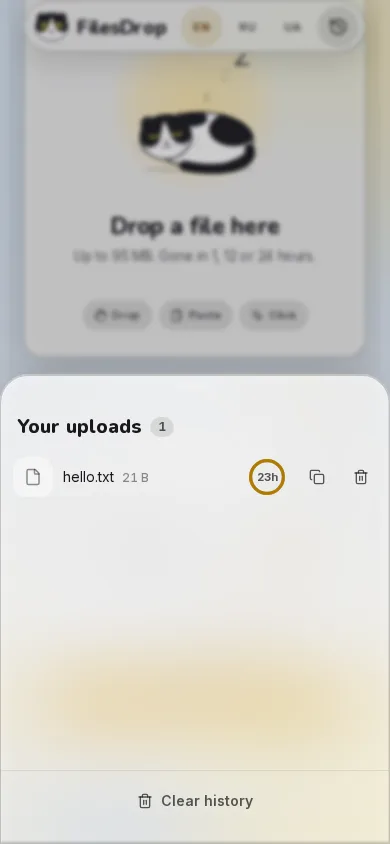
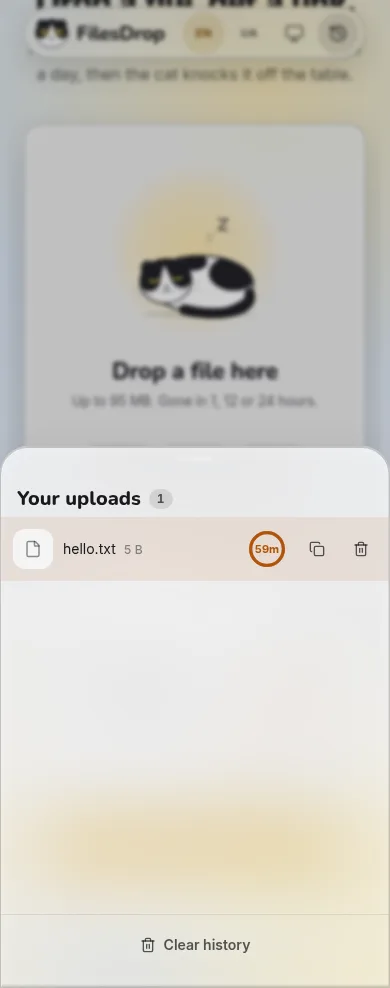
fix: hydration-safe reduced motion, rollback.sh comment, README screenshots without RU
- useReducedMotion from motion/react returned null on the server and true on
  the client's first render, so visitors with reduced motion hydrated different
  cat markup than the server sent (React: "A tree hydrated but some
  attributes ... didn't match"). A useSyncExternalStore hook hydrates with the
  server snapshot and then applies the real setting. Used everywhere the
  motion hook was.
- rollback.sh: describe the :previous tagging as done by build.sh (#16).
- README screenshots retaken on prod: header shows EN/UA and the theme switch.

diff --git a/apps/web/src/lib/use-reduced-motion.ts b/apps/web/src/lib/use-reduced-motion.ts
@@ -1,0 +1,30 @@
+'use client';
+
+import { useSyncExternalStore } from 'react';
+
+const QUERY = '(prefers-reduced-motion: reduce)';
+
+function subscribe(onChange: () => void): () => void {
+  const mql = window.matchMedia(QUERY);
+  mql.addEventListener('change', onChange);
+  return () => mql.removeEventListener('change', onChange);
+}
+
+const getSnapshot = (): boolean => window.matchMedia(QUERY).matches;
+
+/** The server cannot know the visitor's setting, so it renders motion on. */
+const getServerSnapshot = (): boolean => false;
+
+/**
+ * `prefers-reduced-motion`, hydration-safe.
+ *
+ * motion's own `useReducedMotion` returns `null` on the server and the real
+ * value on the client's first render, so a visitor with reduced motion
+ * hydrated different markup than the server sent (animated vs still parts of
+ * the cat) and React logged a hydration mismatch. `useSyncExternalStore`
+ * hydrates with the server snapshot, then re-renders with the real one before
+ * anything animates, and follows the setting if it changes later.
+ */
+export function useReducedMotion(): boolean {
+  return useSyncExternalStore(subscribe, getSnapshot, getServerSnapshot);
+}

diff --git a/apps/web/src/components/history/history-list.tsx b/apps/web/src/components/history/history-list.tsx
@@ -4,13 +4,14 @@ import { Button } from '@andrewbehma/glass-ui/button';
 import { DialogContent, DialogRoot } from '@andrewbehma/glass-ui/dialog';
 import { toast } from '@andrewbehma/glass-ui/toast';
 import { Trash2 } from 'lucide-react';
-import { AnimatePresence, motion, useReducedMotion } from 'motion/react';
+import { AnimatePresence, motion } from 'motion/react';
 import { useTranslations } from 'next-intl';
 import { useEffect, useState } from 'react';
 import { Cat } from '@/components/cat';
 import { deleteRemote } from '@/components/drop/actions';
 import { cueMascot, useNow } from '@/components/drop/hooks';
 import { announce } from '@/components/drop/live-region';
+import { useReducedMotion } from '@/lib/use-reduced-motion';
 import { HistoryRow } from './history-row';
 import { type HistoryEntry, historyStore, useHistory } from './store';
 

diff --git a/apps/web/src/components/drop/result-card.tsx b/apps/web/src/components/drop/result-card.tsx
@@ -8,12 +8,13 @@ import {
 } from '@andrewbehma/glass-ui/segmented-control';
 import { toast } from '@andrewbehma/glass-ui/toast';
 import { Check, Copy, ExternalLink, Share2, Trash2, X } from 'lucide-react';
-import { AnimatePresence, motion, useReducedMotion } from 'motion/react';
+import { AnimatePresence, motion } from 'motion/react';
 import { useLocale, useTranslations } from 'next-intl';
 import { useId, useRef, useState } from 'react';
 import { Cat } from '@/components/cat';
 import { type HistoryEntry, historyStore } from '@/components/history/store';
 import { useSideToasts } from '@/components/shell/app-toaster';
+import { useReducedMotion } from '@/lib/use-reduced-motion';
 import { copyText, deleteRemote } from './actions';
 import { CountdownRing } from './countdown-ring';
 import { formatBytes } from './format';

diff --git a/apps/web/src/components/history/history-panel.tsx b/apps/web/src/components/history/history-panel.tsx
@@ -3,13 +3,14 @@
 import { SheetContent, SheetRoot } from '@andrewbehma/glass-ui/sheet';
 import { SidePanel, useSidePanel } from '@andrewbehma/glass-ui/side-panel';
 import { X } from 'lucide-react';
-import { AnimatePresence, motion, useReducedMotion } from 'motion/react';
+import { AnimatePresence, motion } from 'motion/react';
 import { useTranslations } from 'next-intl';
 import { useEffect } from 'react';
 import { useMediaQuery } from '@/components/drop/hooks';
 import { LiveRegion } from '@/components/drop/live-region';
 import { AppToaster } from '@/components/shell/app-toaster';
 import { useShell } from '@/components/shell/shell-context';
+import { useReducedMotion } from '@/lib/use-reduced-motion';
 import { HistoryList } from './history-list';
 import { useHistory } from './store';
 

diff --git a/apps/web/src/components/drop/drop-experience.tsx b/apps/web/src/components/drop/drop-experience.tsx
@@ -14,7 +14,7 @@ import {
   type Ttl,
   type UploadResult,
 } from '@filesdrop/shared';
-import { AnimatePresence, motion, useReducedMotion } from 'motion/react';
+import { AnimatePresence, motion } from 'motion/react';
 import { useTranslations } from 'next-intl';
 import {
   type PointerEvent,
@@ -26,6 +26,7 @@ import {
 } from 'react';
 import { type CatPose } from '@/components/cat';
 import { type HistoryEntry, historyStore } from '@/components/history/store';
+import { useReducedMotion } from '@/lib/use-reduced-motion';
 import { DropStage } from './drop-stage';
 import { describeFailure, type ErrorKey } from './errors';
 import { useMascotCue, useOnline } from './hooks';

diff --git a/apps/web/src/components/drop/upload-rows.tsx b/apps/web/src/components/drop/upload-rows.tsx
@@ -2,9 +2,10 @@
 
 import type { UploadItem } from '@andrewbehma/glass-ui/use-file-upload';
 import { RotateCcw, X } from 'lucide-react';
-import { AnimatePresence, motion, useReducedMotion } from 'motion/react';
+import { AnimatePresence, motion } from 'motion/react';
 import { useTranslations } from 'next-intl';
 import { useEffect, useState } from 'react';
+import { useReducedMotion } from '@/lib/use-reduced-motion';
 import { describeFailure } from './errors';
 import { FileRow } from './file-row';
 

diff --git a/apps/web/src/components/drop/drop-stage.tsx b/apps/web/src/components/drop/drop-stage.tsx
@@ -2,9 +2,10 @@
 
 import { cn } from '@andrewbehma/glass-ui/cn';
 import { ClipboardPaste, Hand, MousePointerClick } from 'lucide-react';
-import { AnimatePresence, motion, useReducedMotion } from 'motion/react';
+import { AnimatePresence, motion } from 'motion/react';
 import { useTranslations } from 'next-intl';
 import { Cat, type CatPose } from '@/components/cat';
+import { useReducedMotion } from '@/lib/use-reduced-motion';
 import type { StageMessage } from './drop-experience';
 
 type Ring =

diff --git a/apps/web/src/components/cat/cat.tsx b/apps/web/src/components/cat/cat.tsx
@@ -4,10 +4,10 @@ import {
   AnimatePresence,
   motion,
   useMotionValue,
-  useReducedMotion,
   useSpring,
 } from 'motion/react';
 import { type CSSProperties, useEffect, useMemo, useRef } from 'react';
+import { useReducedMotion } from '@/lib/use-reduced-motion';
 import { type CatMotion, CatMotionProvider, pivot } from './motion';
 import { POSE_COMPONENTS } from './pose-map';
 import { CAT_POSE_TRAITS, type CatPose } from './poses';

diff --git a/apps/web/src/components/drop/paw-confetti.tsx b/apps/web/src/components/drop/paw-confetti.tsx
@@ -1,8 +1,9 @@
 'use client';
 
-import { motion, useReducedMotion } from 'motion/react';
+import { motion } from 'motion/react';
 import { useEffect, useState } from 'react';
 import { createPortal } from 'react-dom';
+import { useReducedMotion } from '@/lib/use-reduced-motion';
 
 /** One paw print: a pad and four toes, in a 24×24 box. */
 function Paw({ color }: { color: string }) {
